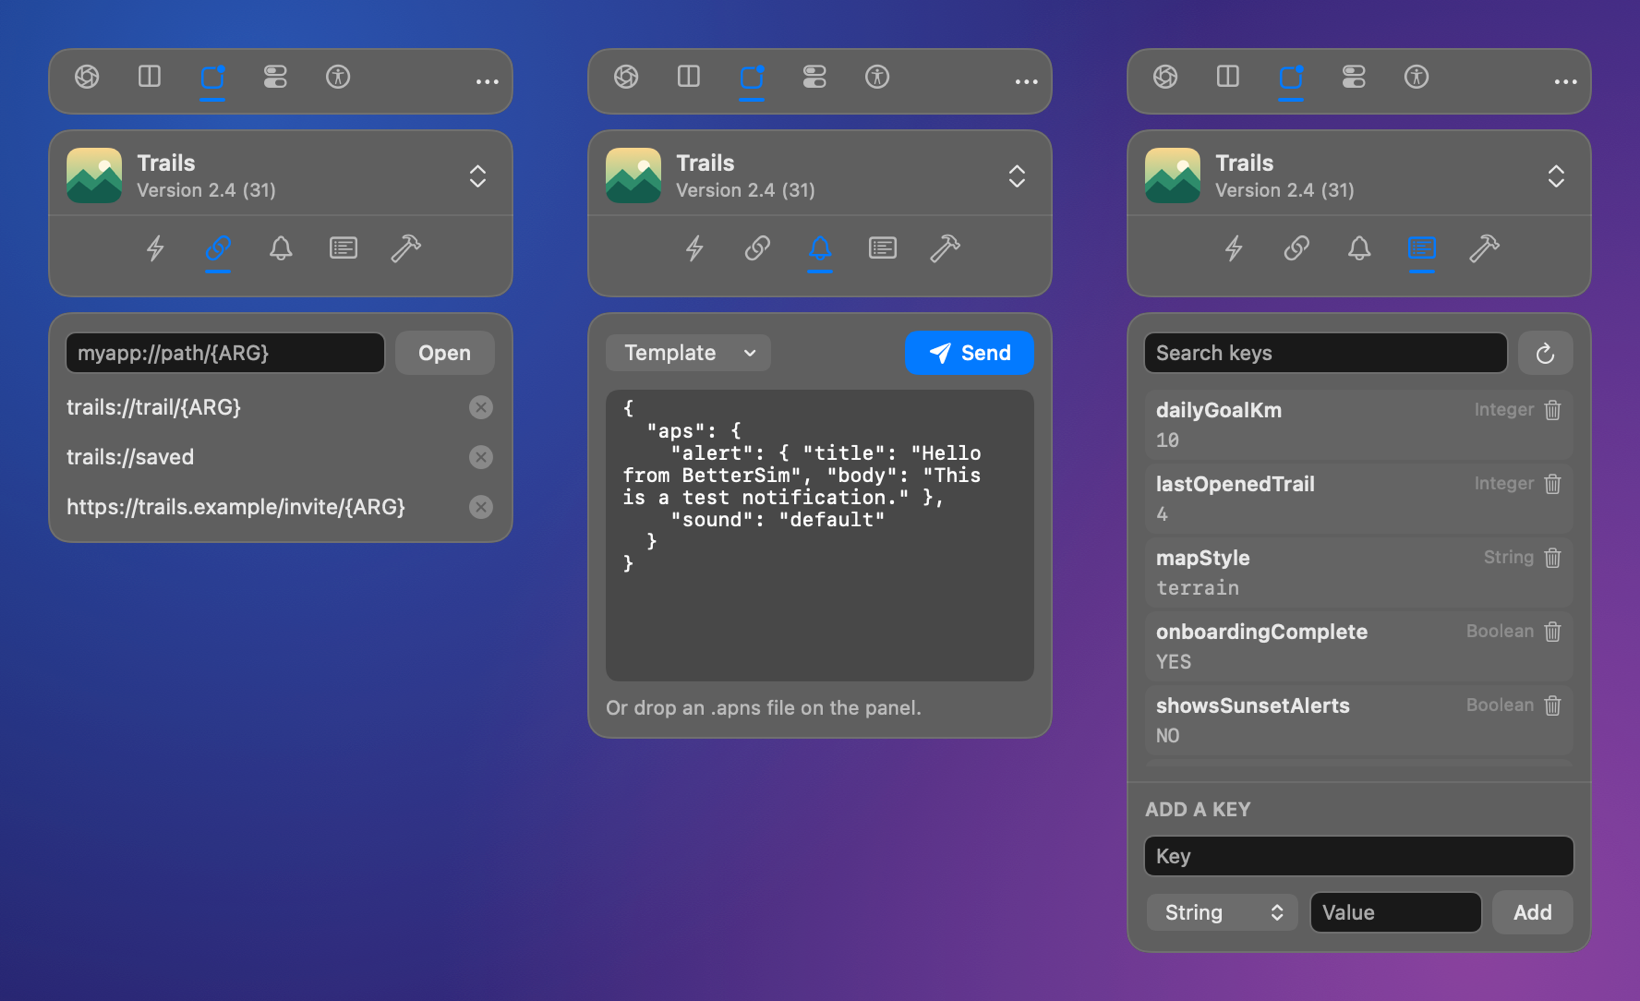
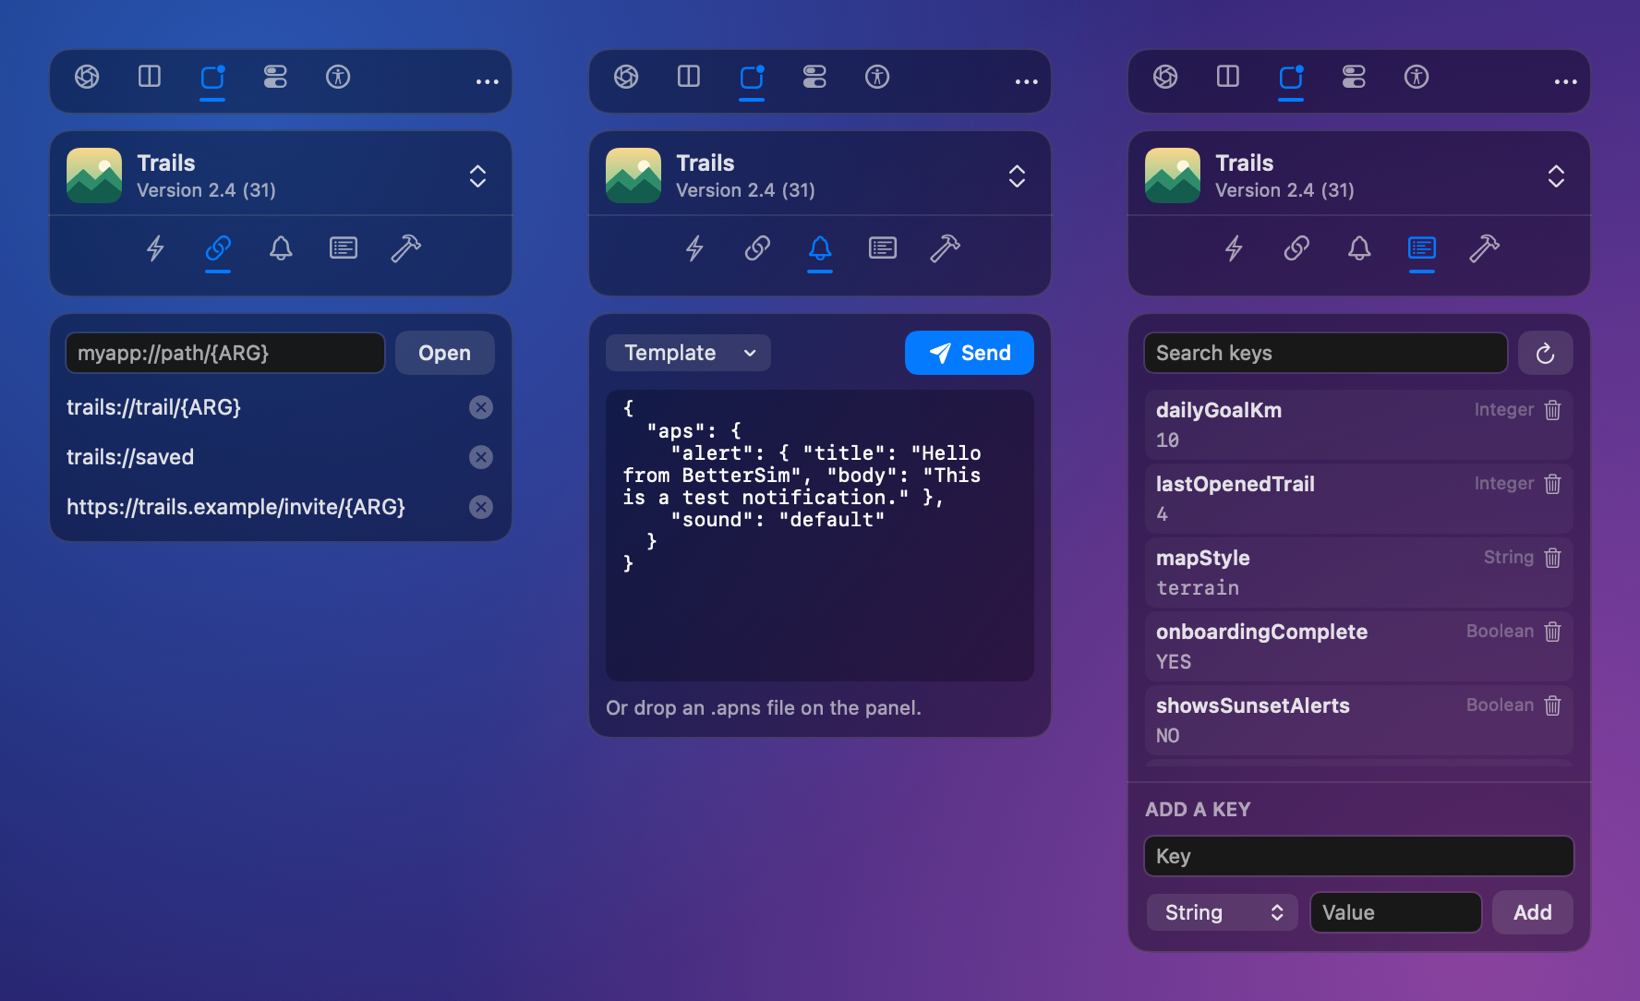
Darken the panel's cards
The frosted material on its own barely darkened what was behind it, so the
cards looked a light grey. A black shade on top now shows the desktop at
about 60% brightness, like RocketSim's side window. The README images draw
the cards the same way, over their wallpaper.

diff --git a/Sources/BetterSim/UI/Theme.swift b/Sources/BetterSim/UI/Theme.swift
@@ -6,6 +6,15 @@ enum Theme {
     static let cardRadius: CGFloat = 12
     static let font = Font.system(size: 11.5)
     static let smallFont = Font.system(size: 10.5, weight: .semibold)
+    /// The frosted material on its own barely darkens what's behind it. With this on top, the cards show the desktop
+    /// at about 60% brightness, like RocketSim's side window.
+    static let cardShade = Color.black.opacity(0.4)
+}
+
+extension EnvironmentValues {
+    /// Images drawn off screen can't blur what's behind the window, so they turn this off and let the shade darken
+    /// whatever the panel is drawn over.
+    @Entry var blursBehindPanel = true
 }
 
 struct VisualEffect: NSViewRepresentable {
@@ -29,12 +38,18 @@ struct Card<Content: View>: View {
     var padding: CGFloat = 10
     var spacing: CGFloat = 8
     @ViewBuilder let content: Content
+    @Environment(\.blursBehindPanel) private var blursBehind
 
     var body: some View {
         VStack(alignment: .leading, spacing: spacing) { content }
             .padding(padding)
             .frame(maxWidth: .infinity, alignment: .leading)
-            .background(VisualEffect())
+            .background {
+                ZStack {
+                    if blursBehind { VisualEffect() }
+                    Theme.cardShade
+                }
+            }
             .clipShape(RoundedRectangle(cornerRadius: Theme.cardRadius, style: .continuous))
             .overlay(
                 RoundedRectangle(cornerRadius: Theme.cardRadius, style: .continuous)

diff --git a/Sources/BetterSim/App/DocImages.swift b/Sources/BetterSim/App/DocImages.swift
@@ -98,7 +98,7 @@ enum DocImages {
                         .shadow(color: .black.opacity(0.45), radius: 28, y: 16)
                 }
                 PanelView(model: model, overlay: OverlayModel(), layout: PanelLayout())
-                    .shadow(color: .black.opacity(0.35), radius: 18, y: 8)
+                    .environment(\.blursBehindPanel, false)
                     .padding(.top, 2)
             }
             .padding(.top, 10)
@@ -289,7 +289,7 @@ enum DocImages {
     /// The panel on its own, cut down to its cards.
     private static func panel(model: SimulatorModel) async throws -> NSImage {
         let rep = try await render(
-            PanelView(model: model, overlay: OverlayModel(), layout: PanelLayout()).padding(14),
+            PanelView(model: model, overlay: OverlayModel(), layout: PanelLayout()).environment(\.blursBehindPanel, false).padding(14),
             size: CGSize(width: Theme.width + 28, height: 1000)
         )
         guard let image = trimmed(rep) else { return NSImage() }
